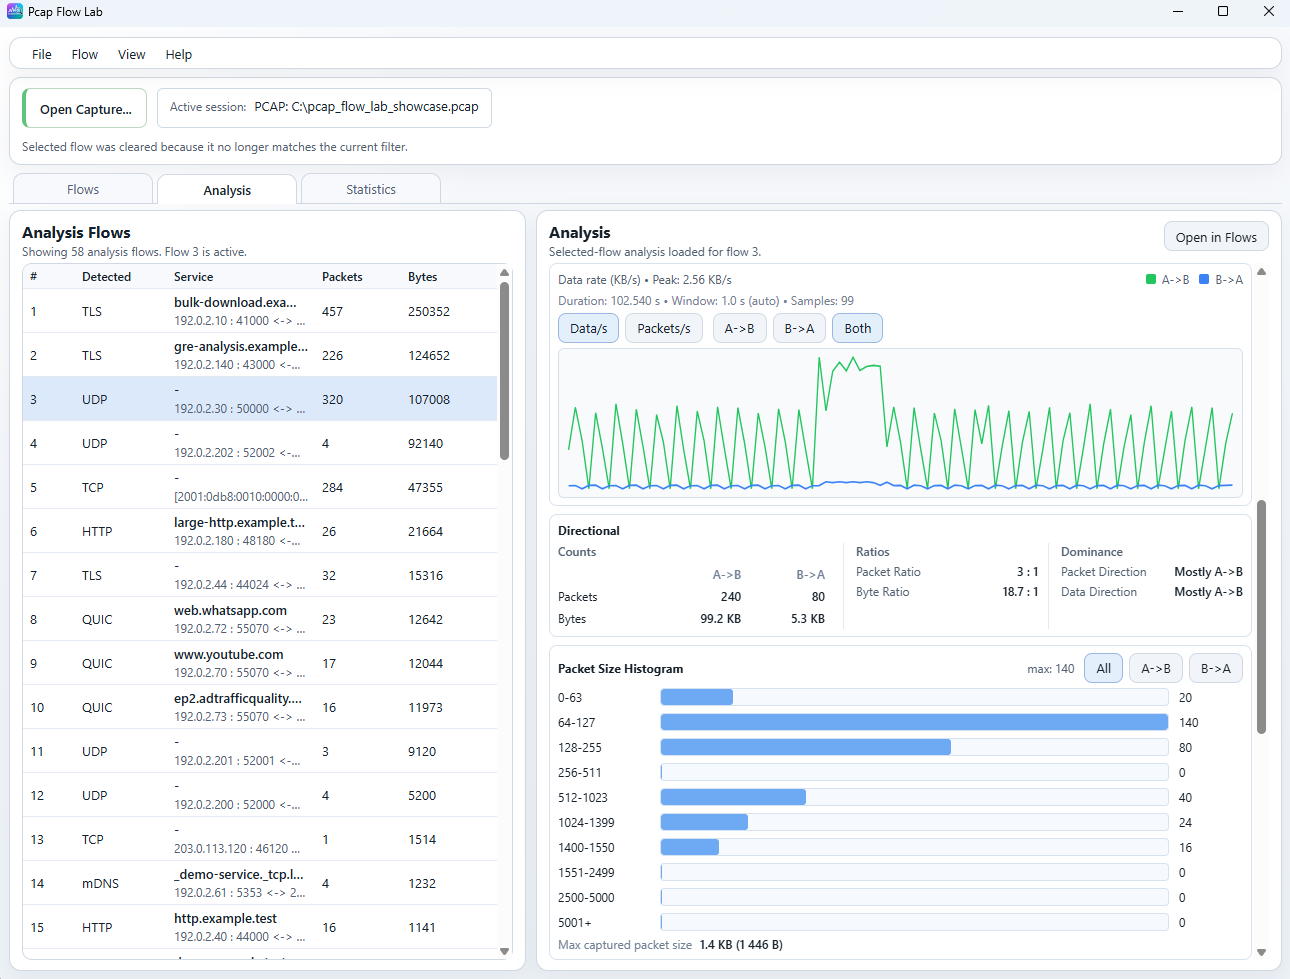
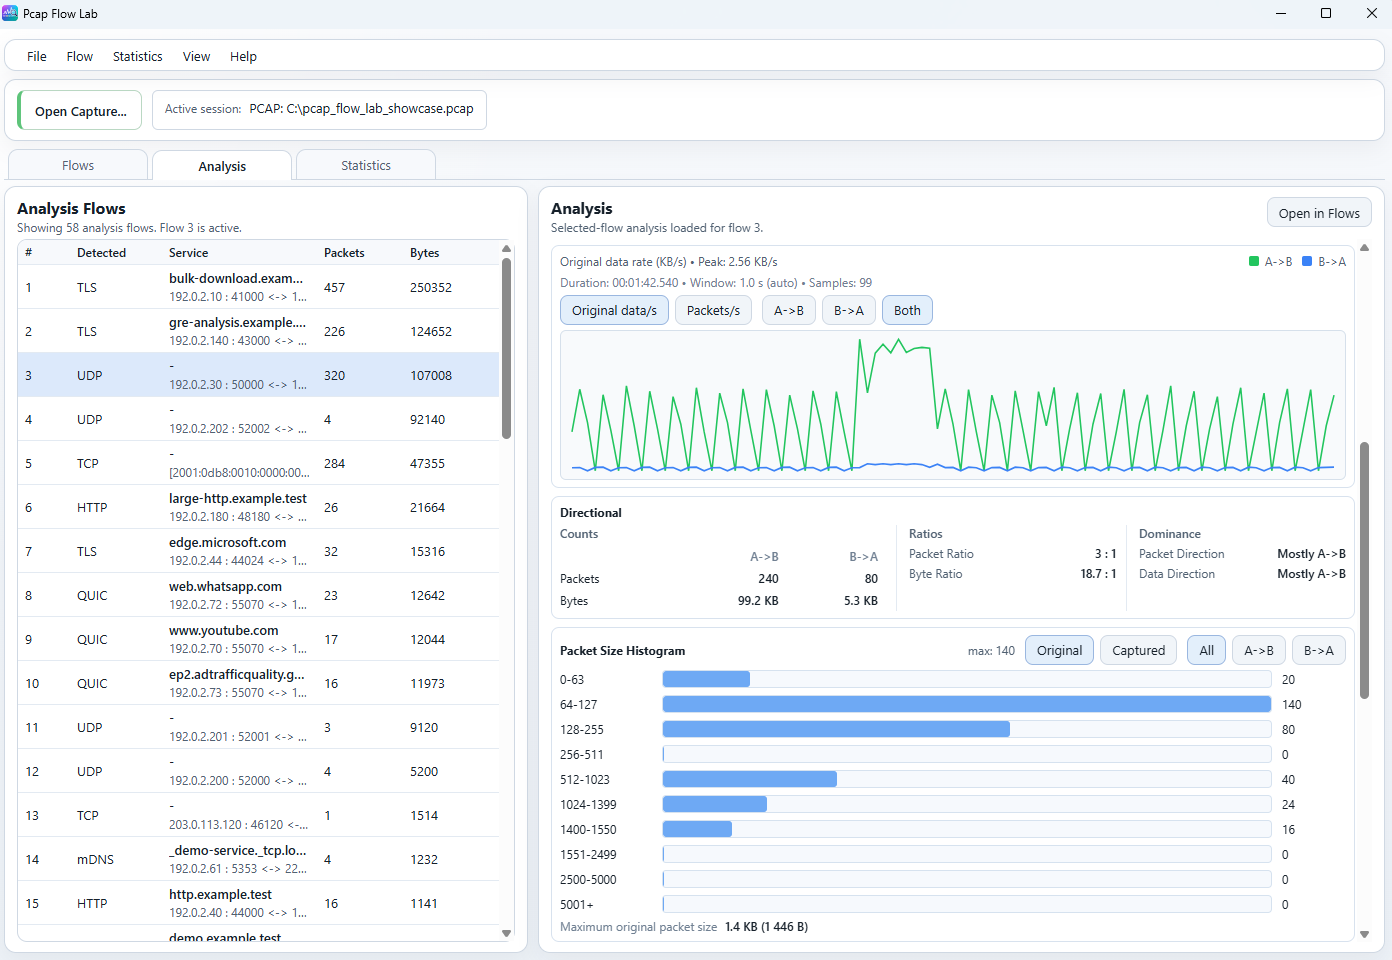
Update Analysis documentation for current graph controls

diff --git a/user_docs/ui/analysis.md b/user_docs/ui/analysis.md
@@ -16,7 +16,7 @@ capture `Statistics` workspace.
 
 Use it when you want to:
 
-- inspect one canonical flow as a whole;
+- inspect one Flow as a whole;
 - compare `A->B` and `B->A` traffic behavior;
 - understand rates, timing, sizes, bursts, and idle gaps;
 - preview packet order and export the flow sequence;
@@ -26,7 +26,7 @@ Use it when you want to:
 
 The left side of the workspace is `Analysis Flows`.
 
-Each row represents one canonical flow and currently shows:
+Each row represents one Flow and currently shows:
 
 - `#`
 - `Detected`
@@ -39,7 +39,7 @@ Selecting a row makes that flow the active Analysis target on the right.
 
 Field meanings:
 
-- `#` is the same one-based canonical flow number used elsewhere in the UI.
+- `#` is the same one-based Flow number used elsewhere in the UI.
 - `Detected` keeps the same detected-protocol meaning as in `Flows`.
 - `Service` keeps the same service-hint meaning as in `Flows`.
 - `Packets` is the total number of packets in that flow.
@@ -448,7 +448,7 @@ These are normal presentation states, not necessarily errors.
 
 `Open in Flows` bridges back to the detailed inspection workspace.
 
-It takes the same canonical flow that is currently active in `Analysis` and
+It takes the same Flow that is currently active in `Analysis` and
 opens it as the active target in `Flows`, where you can inspect:
 
 - packet rows;

diff --git a/user_docs/ui/statistics.md b/user_docs/ui/statistics.md
@@ -220,11 +220,14 @@ The separate maximum line follows the selected mode:
 - `Maximum original packet size`
 
 This intentionally differs from the selected-flow Analysis packet-size
-histogram. In current production:
+histogram. In current production, the main distinction is scope and local
+direction controls:
 
-- `Statistics -> Packet Size Distribution` can show captured or original packet
-  length across the whole capture;
-- `Analysis -> Packet Size Histogram` uses original packet length.
+- `Statistics -> Packet Size Distribution` covers the whole active capture or
+  index and supports `Captured` / `Original` modes.
+- `Analysis -> Packet Size Histogram` covers only the selected Flow, also
+  supports `Original` / `Captured` modes, and adds local direction selection:
+  `All`, `A->B`, and `B->A`.
 
 That difference matters whenever truncation or snaplen causes captured length
 and original length to differ.
